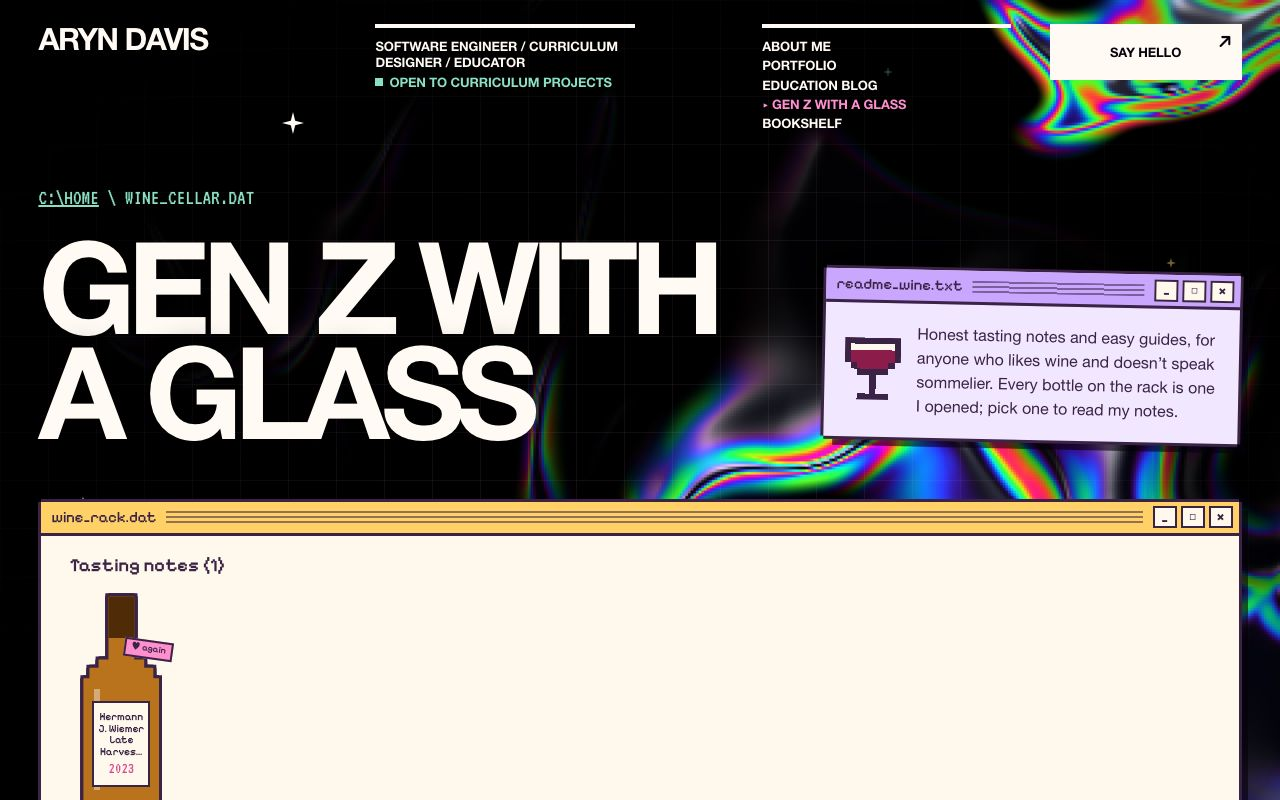
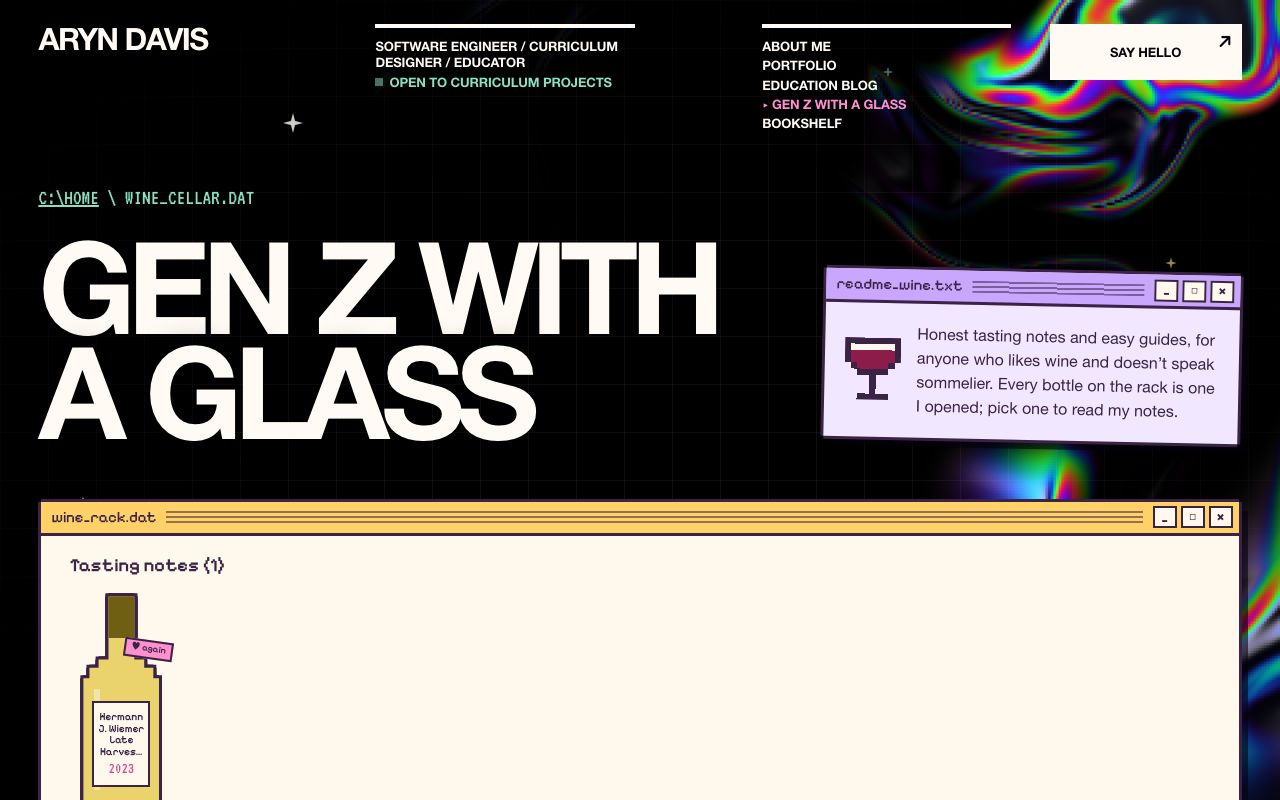
The Wiemer is a white wine, not dessert
Late harvest is about when the grapes were picked, so it no longer makes
the site guess dessert; such wines go by their grape. The Wiemer note says
white outright. README wine screenshot retaken.

diff --git a/src/content/tastingNotes.ts b/src/content/tastingNotes.ts
@@ -88,7 +88,8 @@ const WHITE_GRAPES = [
 // Checked against the wine's name first, since these beat the grape (a Champagne is often Pinot Noir).
 const NAME_HINTS: [RegExp, WineStyle][] = [
   [/\b(champagne|cava|prosecco|cremant|pet[- ]?nat|petillant|spumante|sekt|franciacorta|lambrusco|sparkling|brut)\b/, 'sparkling'],
-  [/\b(sauternes|port|porto|tokaji|ice ?wine|eiswein|late harvest|vin santo|sherry|madeira|dessert)\b/, 'dessert'],
+  // Not "late harvest": that's when the grapes were picked, and plenty of late-harvest wines are plain whites.
+  [/\b(sauternes|port|porto|tokaji|ice ?wine|eiswein|vin santo|sherry|madeira|dessert)\b/, 'dessert'],
   [/\b(orange|skin[- ]contact|amber|ramato)\b/, 'orange'],
   [/\b(rose|rosato|rosado|clairet)\b/, 'rosé'],
 ]

diff --git a/src/content/wine.ts b/src/content/wine.ts
@@ -25,6 +25,7 @@ export const handNotes: TastingNote[] = [
     wine: 'Hermann J. Wiemer Late Harvest Riesling',
     grape: 'Riesling',
     vintage: 2023,
+    style: 'white',
     date: '2026-10-21',
     producer: 'Hermann J. Wiemer',
     region: 'Finger Lakes, New York',
